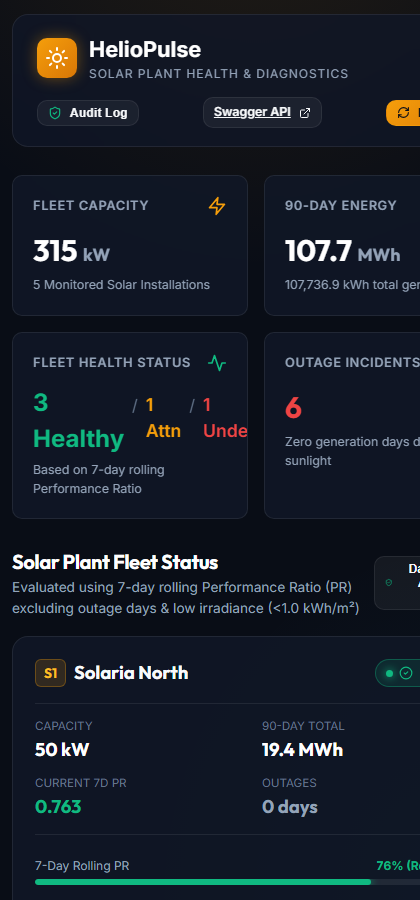
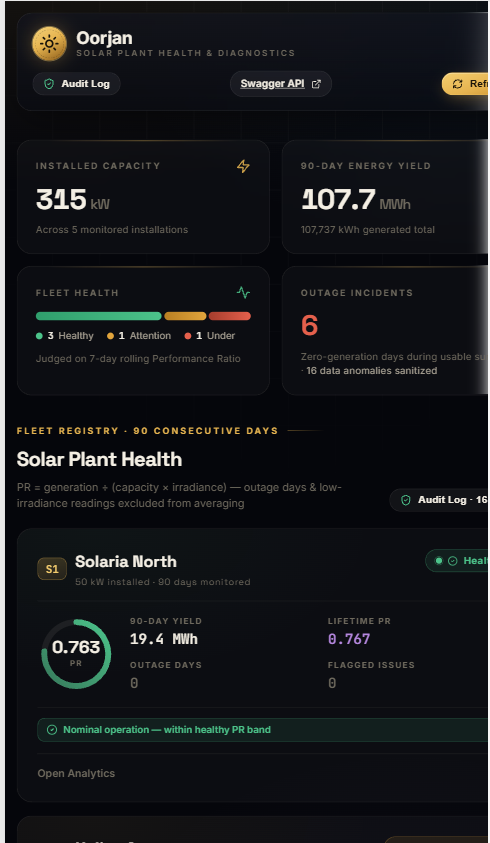
added screenshots to the readme file

Changed region(s): [[0.0, 0.0, 1.0, 1.0]]

diff --git a/mobile/src/components/SplashScreen.jsx b/mobile/src/components/SplashScreen.jsx
@@ -1,0 +1,283 @@
+import React, { useEffect, useRef, useState } from 'react';
+import {
+  View,
+  Text,
+  Image,
+  Animated,
+  StyleSheet,
+  Dimensions,
+  Easing,
+} from 'react-native';
+import { COLORS } from '../theme/colors';
+
+const { width } = Dimensions.get('window');
+
+const TELEMETRY_STEPS = [
+  'Initializing telemetry engine...',
+  'Connecting to inverter dataloggers...',
+  'Evaluating Performance Ratios (PR)...',
+  'Solar fleet diagnostics ready!',
+];
+
+export default function SplashScreen({ onFinish, isReady = false }) {
+  const [stepIndex, setStepIndex] = useState(0);
+
+  // Animations
+  const logoOpacity = useRef(new Animated.Value(0)).current;
+  const logoScale = useRef(new Animated.Value(0.85)).current;
+  const auraScale = useRef(new Animated.Value(0.9)).current;
+  const auraOpacity = useRef(new Animated.Value(0.35)).current;
+  const progressAnim = useRef(new Animated.Value(0)).current;
+  const exitOpacity = useRef(new Animated.Value(1)).current;
+
+  useEffect(() => {
+    // 1. Logo entrance
+    Animated.parallel([
+      Animated.timing(logoOpacity, {
+        toValue: 1,
+        duration: 800,
+        useNativeDriver: true,
+      }),
+      Animated.spring(logoScale, {
+        toValue: 1,
+        friction: 6,
+        tension: 40,
+        useNativeDriver: true,
+      }),
+    ]).start();
+
+    // 2. Continuous solar aura pulse
+    const auraPulse = Animated.loop(
+      Animated.sequence([
+        Animated.parallel([
+          Animated.timing(auraScale, {
+            toValue: 1.25,
+            duration: 1800,
+            easing: Easing.inOut(Easing.ease),
+            useNativeDriver: true,
+          }),
+          Animated.timing(auraOpacity, {
+            toValue: 0.7,
+            duration: 1800,
+            easing: Easing.inOut(Easing.ease),
+            useNativeDriver: true,
+          }),
+        ]),
+        Animated.parallel([
+          Animated.timing(auraScale, {
+            toValue: 0.9,
+            duration: 1800,
+            easing: Easing.inOut(Easing.ease),
+            useNativeDriver: true,
+          }),
+          Animated.timing(auraOpacity, {
+            toValue: 0.35,
+            duration: 1800,
+            easing: Easing.inOut(Easing.ease),
+            useNativeDriver: true,
+          }),
+        ]),
+      ])
+    );
+    auraPulse.start();
+
+    // 3. Progress bar animation
+    Animated.timing(progressAnim, {
+      toValue: 1,
+      duration: 2200,
+      easing: Easing.out(Easing.cubic),
+      useNativeDriver: false,
+    }).start();
+
+    // 4. Stepped status updates
+    const t1 = setTimeout(() => setStepIndex(1), 600);
+    const t2 = setTimeout(() => setStepIndex(2), 1200);
+    const t3 = setTimeout(() => setStepIndex(3), 1800);
+
+    // 5. Completion handling
+    const minTimePromise = new Promise((resolve) => setTimeout(resolve, 2400));
+    const safetyTimeout = setTimeout(() => {
+      triggerExit();
+    }, 4000);
+
+    minTimePromise.then(() => {
+      triggerExit();
+    });
+
+    function triggerExit() {
+      clearTimeout(safetyTimeout);
+      Animated.timing(exitOpacity, {
+        toValue: 0,
+        duration: 450,
+        easing: Easing.inOut(Easing.ease),
+        useNativeDriver: true,
+      }).start(() => {
+        if (onFinish) onFinish();
+      });
+    }
+
+    return () => {
+      clearTimeout(t1);
+      clearTimeout(t2);
+      clearTimeout(t3);
+      clearTimeout(safetyTimeout);
+      auraPulse.stop();
+    };
+  }, [onFinish]);
+
+  const progressBarWidth = progressAnim.interpolate({
+    inputRange: [0, 1],
+    outputRange: ['0%', '100%'],
+  });
+
+  return (
+    <Animated.View style={[styles.container, { opacity: exitOpacity }]}>
+      {/* Background Solar Aura Glow */}
+      <Animated.View
+        style={[
+          styles.solarAura,
+          {
+            transform: [{ scale: auraScale }],
+            opacity: auraOpacity,
+          },
+        ]}
+      />
+
+      {/* Main Logo & Branding Block */}
+      <Animated.View
+        style={[
+          styles.logoContainer,
+          {
+            opacity: logoOpacity,
+            transform: [{ scale: logoScale }],
+          },
+        ]}
+      >
+        <Image
+          source={require('../../assets/oorjan_dark_logo.png')}
+          style={styles.logoImage}
+          resizeMode="contain"
+        />
+
+        <View style={styles.taglineBox}>
+          <Text style={styles.taglineText}>SOLAR PLANT HEALTH & DIAGNOSTICS</Text>
+          <Text style={styles.subTaglineText}>
+            Clean Energy Telemetry • Performance Intelligence
+          </Text>
+        </View>
+      </Animated.View>
+
+      {/* Bottom Telemetry Loading & Progress Indicator */}
+      <View style={styles.bottomSection}>
+        <View style={styles.statusPill}>
+          <View style={styles.statusDot} />
+          <Text style={styles.statusText}>{TELEMETRY_STEPS[stepIndex]}</Text>
+        </View>
+
+        {/* Animated Progress Bar */}
+        <View style={styles.progressBarTrack}>
+          <Animated.View style={[styles.progressBarFill, { width: progressBarWidth }]} />
+        </View>
+
+        <Text style={styles.footerNote}>
+          OORJAN CLEANTECH • TELEMETRY ENGINE
+        </Text>
+      </View>
+    </Animated.View>
+  );
+}
+
+const styles = StyleSheet.create({
+  container: {
+    ...StyleSheet.absoluteFillObject,
+    backgroundColor: '#0b0f19',
+    alignItems: 'center',
+    justifyContent: 'center',
+    zIndex: 999,
+  },
+  solarAura: {
+    position: 'absolute',
+    width: width * 0.9,
+    height: width * 0.9,
+    borderRadius: (width * 0.9) / 2,
+    backgroundColor: 'rgba(245, 158, 11, 0.16)',
+  },
+  logoContainer: {
+    alignItems: 'center',
+    justifyContent: 'center',
+    paddingHorizontal: 24,
+    width: '100%',
+  },
+  logoImage: {
+    width: width * 0.76,
+    height: (width * 0.76) * 0.58,
+    maxWidth: 380,
+    maxHeight: 220,
+  },
+  taglineBox: {
+    marginTop: 18,
+    alignItems: 'center',
+  },
+  taglineText: {
+    color: '#f59e0b',
+    fontSize: 13,
+    fontWeight: '800',
+    letterSpacing: 1.5,
+    textTransform: 'uppercase',
+  },
+  subTaglineText: {
+    color: '#94a3b8',
+    fontSize: 11,
+    fontWeight: '500',
+    marginTop: 6,
+    letterSpacing: 0.5,
+  },
+  bottomSection: {
+    position: 'absolute',
+    bottom: 50,
+    width: width * 0.82,
+    alignItems: 'center',
+  },
+  statusPill: {
+    flexDirection: 'row',
+    alignItems: 'center',
+    backgroundColor: 'rgba(255, 255, 255, 0.05)',
+    borderWidth: 1,
+    borderColor: 'rgba(245, 158, 11, 0.25)',
+    borderRadius: 20,
+    paddingVertical: 6,
+    paddingHorizontal: 14,
+    marginBottom: 14,
+    gap: 8,
+  },
+  statusDot: {
+    width: 7,
+    height: 7,
+    borderRadius: 3.5,
+    backgroundColor: '#f59e0b',
+  },
+  statusText: {
+    color: '#cbd5e1',
+    fontSize: 12,
+    fontWeight: '600',
+  },
+  progressBarTrack: {
+    width: '100%',
+    height: 4,
+    backgroundColor: 'rgba(255, 255, 255, 0.1)',
+    borderRadius: 2,
+    overflow: 'hidden',
+    marginBottom: 16,
+  },
+  progressBarFill: {
+    height: '100%',
+    backgroundColor: '#f59e0b',
+    borderRadius: 2,
+  },
+  footerNote: {
+    color: '#64748b',
+    fontSize: 10,
+    fontWeight: '600',
+    letterSpacing: 1.2,
+  },
+});

diff --git a/mobile/src/components/Header.jsx b/mobile/src/components/Header.jsx
@@ -1,5 +1,5 @@
 import React from 'react';
-import { View, Text, TouchableOpacity, StyleSheet } from 'react-native';
+import { View, Text, TouchableOpacity, StyleSheet, Image } from 'react-native';
 import { COLORS } from '../theme/colors';
 
 export default function Header({
@@ -21,13 +21,11 @@ export default function Header({
           </TouchableOpacity>
         ) : (
           <View style={styles.brandRow}>
-            <View style={styles.brandIconBox}>
-              <Text style={styles.brandSunIcon}>☀</Text>
-            </View>
-            <View>
-              <Text style={styles.brandTitle}>Oorjan</Text>
-              <Text style={styles.brandSubtitle}>Solar Plant Health &amp; Diagnostics</Text>
-            </View>
+            <Image
+              source={require('../../assets/oorjan_dark_logo.png')}
+              style={styles.brandLogo}
+              resizeMode="contain"
+            />
           </View>
         )}
 
@@ -108,31 +106,10 @@ const styles = StyleSheet.create({
   brandRow: {
     flexDirection: 'row',
     alignItems: 'center',
-    gap: 10,
   },
-  brandIconBox: {
-    width: 38,
-    height: 38,
-    borderRadius: 10,
-    backgroundColor: 'rgba(245, 158, 11, 0.15)',
-    borderWidth: 1,
-    borderColor: 'rgba(245, 158, 11, 0.3)',
-    alignItems: 'center',
-    justifyContent: 'center',
-  },
-  brandSunIcon: {
-    fontSize: 18,
-  },
-  brandTitle: {
-    fontSize: 18,
-    fontWeight: '800',
-    color: '#ffffff',
-    letterSpacing: -0.3,
-  },
-  brandSubtitle: {
-    fontSize: 10.5,
-    color: COLORS.textMuted,
-    fontWeight: '500',
+  brandLogo: {
+    width: 125,
+    height: 36,
   },
   backButton: {
     flexDirection: 'row',

diff --git a/mobile/App.js b/mobile/App.js
@@ -11,6 +11,7 @@ import Header from './src/components/Header';
 import OverviewScreen from './src/screens/OverviewScreen';
 import PlantDetailScreen from './src/screens/PlantDetailScreen';
 import AuditModal from './src/components/AuditModal';
+import SplashScreen from './src/components/SplashScreen';
 import {
   fetchFleetOverview,
   fetchPlantDetail,
@@ -23,6 +24,7 @@ export default function App() {
   const [plantDetail, setPlantDetail] = useState(null);
   const [qualityLogs, setQualityLogs] = useState([]);
   const [showAuditModal, setShowAuditModal] = useState(false);
+  const [showSplash, setShowSplash] = useState(true);
 
   const [filterStartDate, setFilterStartDate] = useState('');
   const [filterEndDate, setFilterEndDate] = useState('');
@@ -148,6 +150,14 @@ export default function App() {
           logs={qualityLogs}
           onClose={() => setShowAuditModal(false)}
         />
+
+        {/* Animated Oorjan Splash Screen */}
+        {showSplash && (
+          <SplashScreen
+            isReady={!loading && Boolean(fleetData)}
+            onFinish={() => setShowSplash(false)}
+          />
+        )}
       </View>
     </SafeAreaView>
   );
